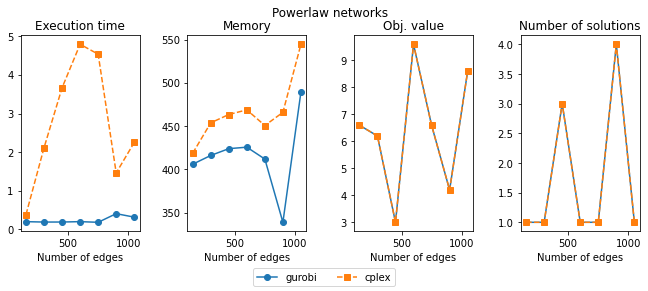
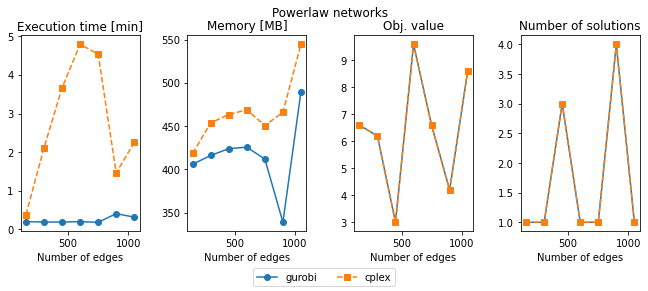
Improved the pipeline: 1) slurm config has been added 2) appropriate version of CARNIVAL is installed automatically

Changed region(s): [[0.0309, 0.0619, 0.216, 0.1237], [0.3086, 0.0619, 0.463, 0.1237]]

diff --git a/README.md b/README.md
@@ -131,9 +131,8 @@ axs[3].bar(solvers, [logs[x]["solution_count"] for x in solvers])
 ![png](main.py_files/main.py_4_1.png)
 
 
-cplex | gurobi
-- | -
-<img src="Images/example_cplex.svg" alt="cplex" width="200"/> | <img src="Images/example_gurobi.svg" alt="gurobi" width="200"/>
+Cplex on the left and gurobi on the right
+<img src="Images/example_cplex.svg" alt="cplex" width="200"/>  <img src="Images/example_gurobi.svg" alt="gurobi" width="200"/>
 
 # Results
 
@@ -190,7 +189,7 @@ The PKN given to CARNIVAL is generated with `igraph::static.power.law.game()` fu
 
 
 ```python
-col_names = ["Execution time", "Memory", "Obj. value", "Number of solutions"]
+col_names = ["Execution time [min]", "Memory [MB]", "Obj. value", "Number of solutions"]
 num_nodes = np.arange(50, 400, 50)
 df_gurobi = pd.DataFrame([get_results(4*x, x, "gurobi", "Powerlaw") for x in num_nodes], columns=col_names)
 df_cplex = pd.DataFrame([get_results(4*x, x, "cplex", "Powerlaw") for x in num_nodes], columns=col_names)

diff --git a/main.py.md b/main.py.md
@@ -131,9 +131,8 @@ axs[3].bar(solvers, [logs[x]["solution_count"] for x in solvers])
 ![png](main.py_files/main.py_4_1.png)
 
 
-cplex | gurobi
-- | -
-<img src="Images/example_cplex.svg" alt="cplex" width="200"/> | <img src="Images/example_gurobi.svg" alt="gurobi" width="200"/>
+Cplex on the left and gurobi on the right
+<img src="Images/example_cplex.svg" alt="cplex" width="200"/>  <img src="Images/example_gurobi.svg" alt="gurobi" width="200"/>
 
 # Results
 
@@ -190,7 +189,7 @@ The PKN given to CARNIVAL is generated with `igraph::static.power.law.game()` fu
 
 
 ```python
-col_names = ["Execution time", "Memory", "Obj. value", "Number of solutions"]
+col_names = ["Execution time [min]", "Memory [MB]", "Obj. value", "Number of solutions"]
 num_nodes = np.arange(50, 400, 50)
 df_gurobi = pd.DataFrame([get_results(4*x, x, "gurobi", "Powerlaw") for x in num_nodes], columns=col_names)
 df_cplex = pd.DataFrame([get_results(4*x, x, "cplex", "Powerlaw") for x in num_nodes], columns=col_names)
